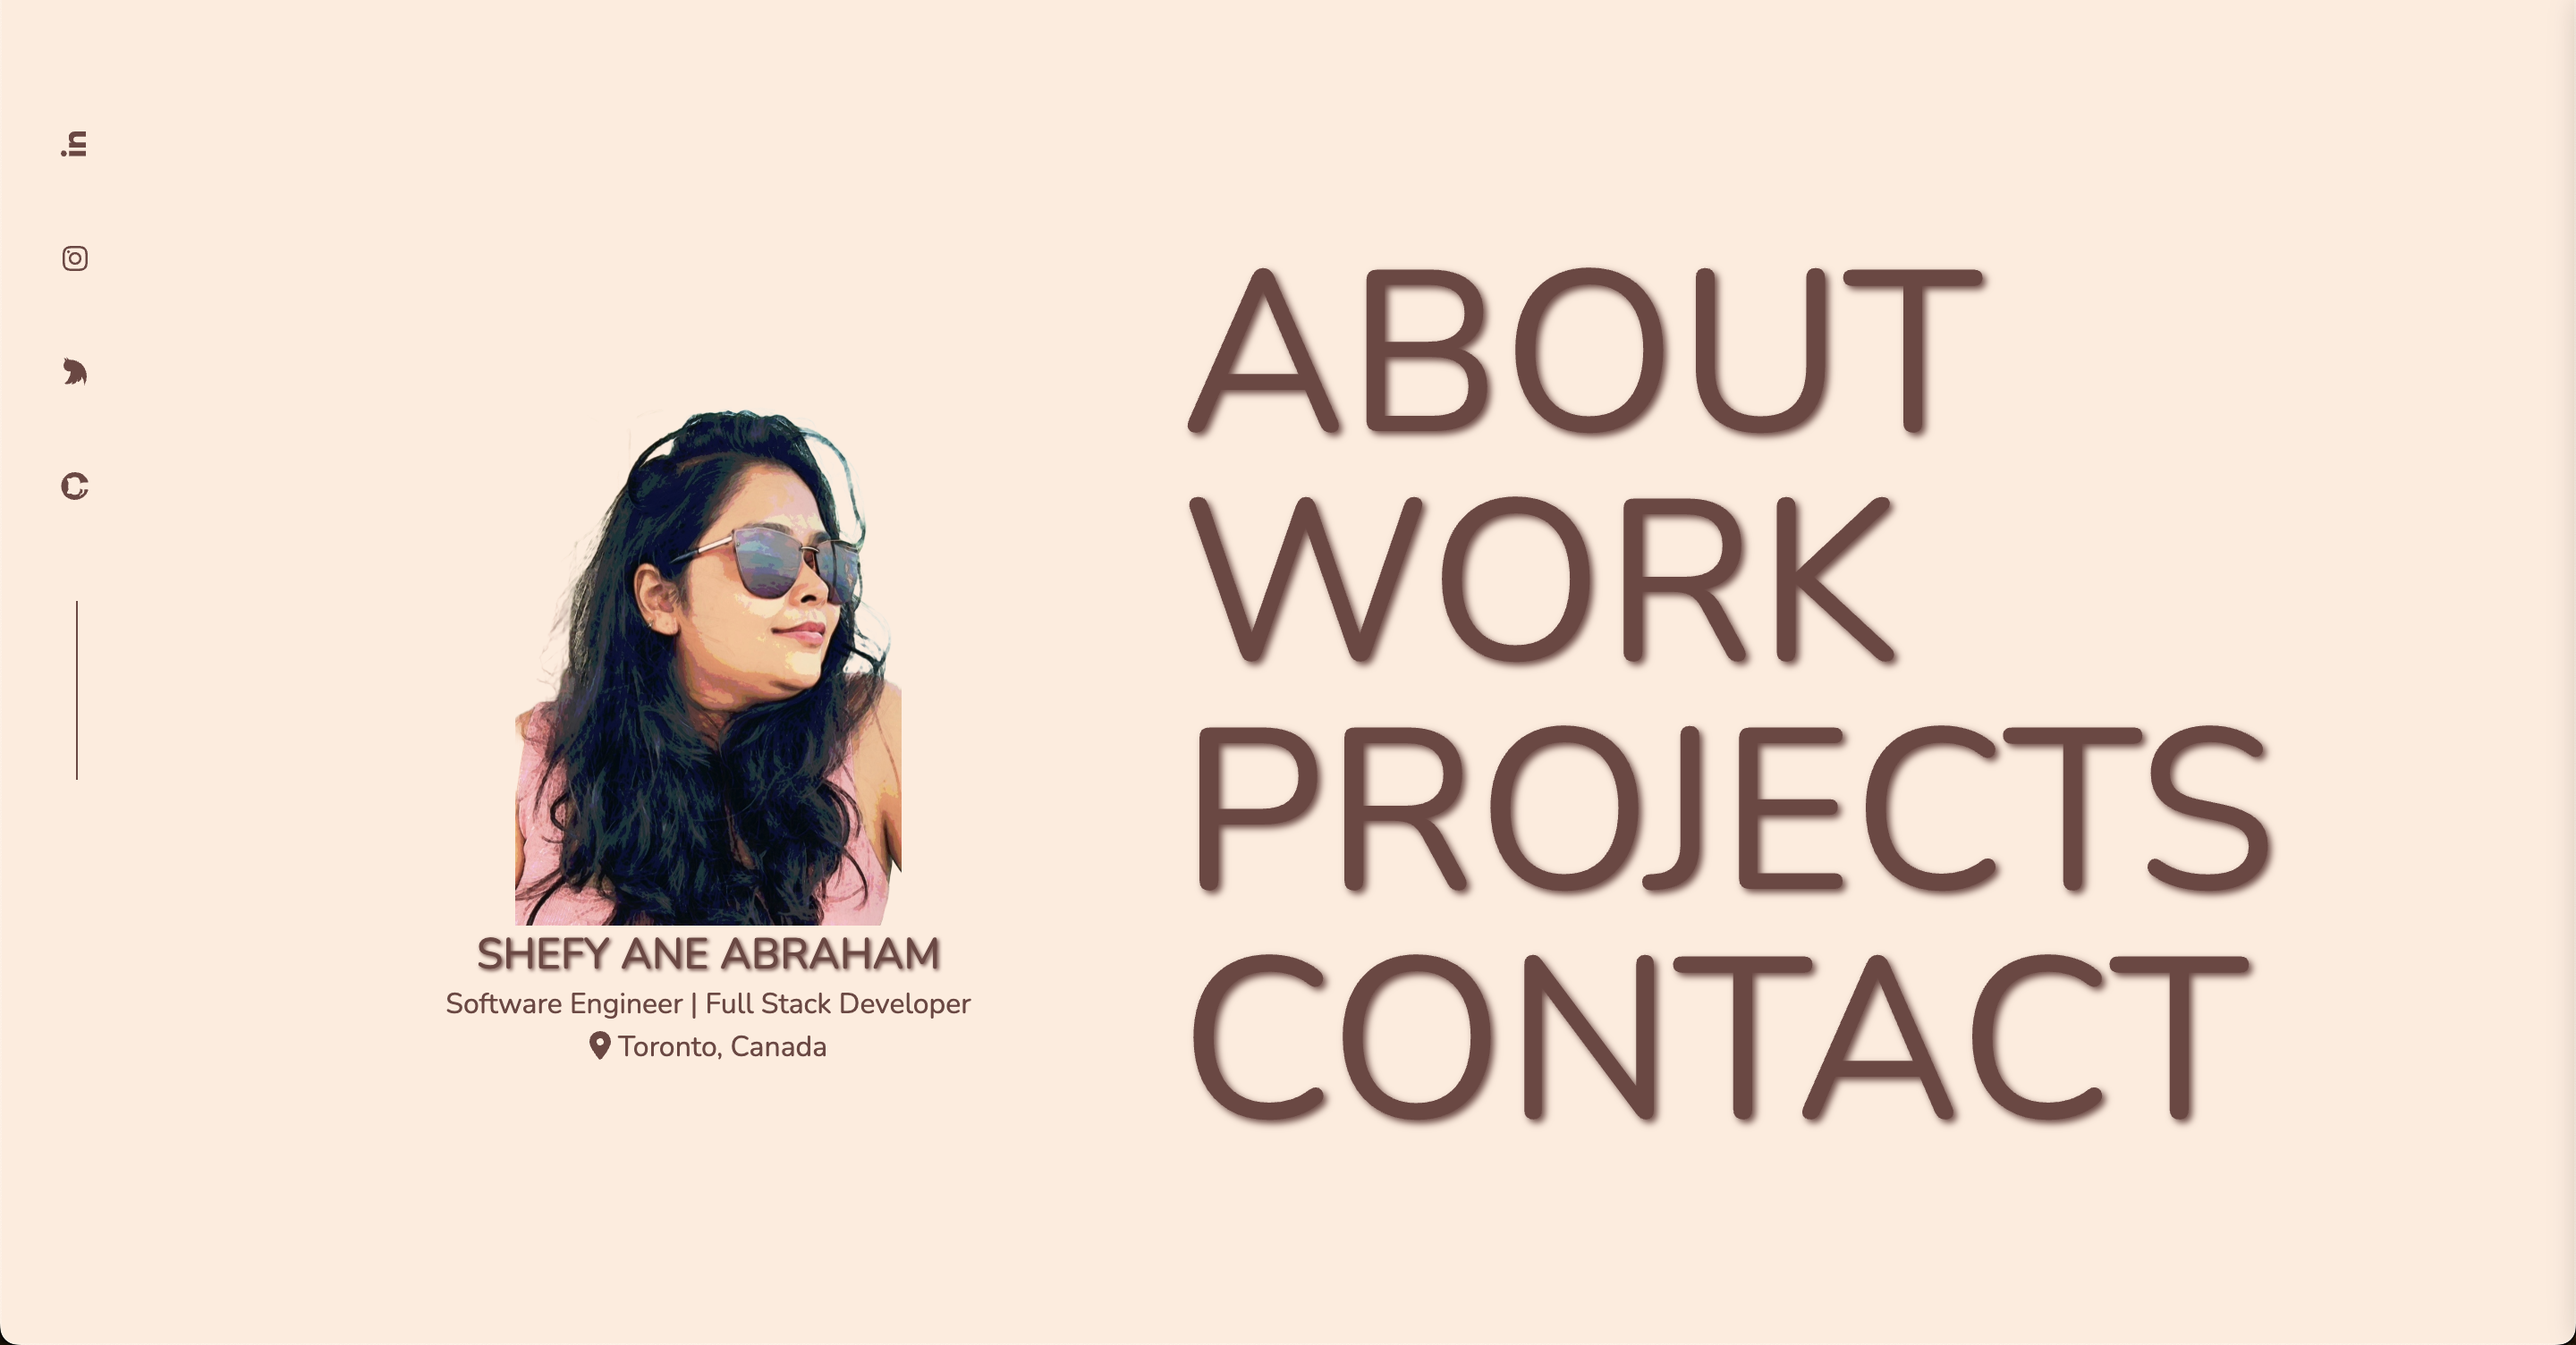
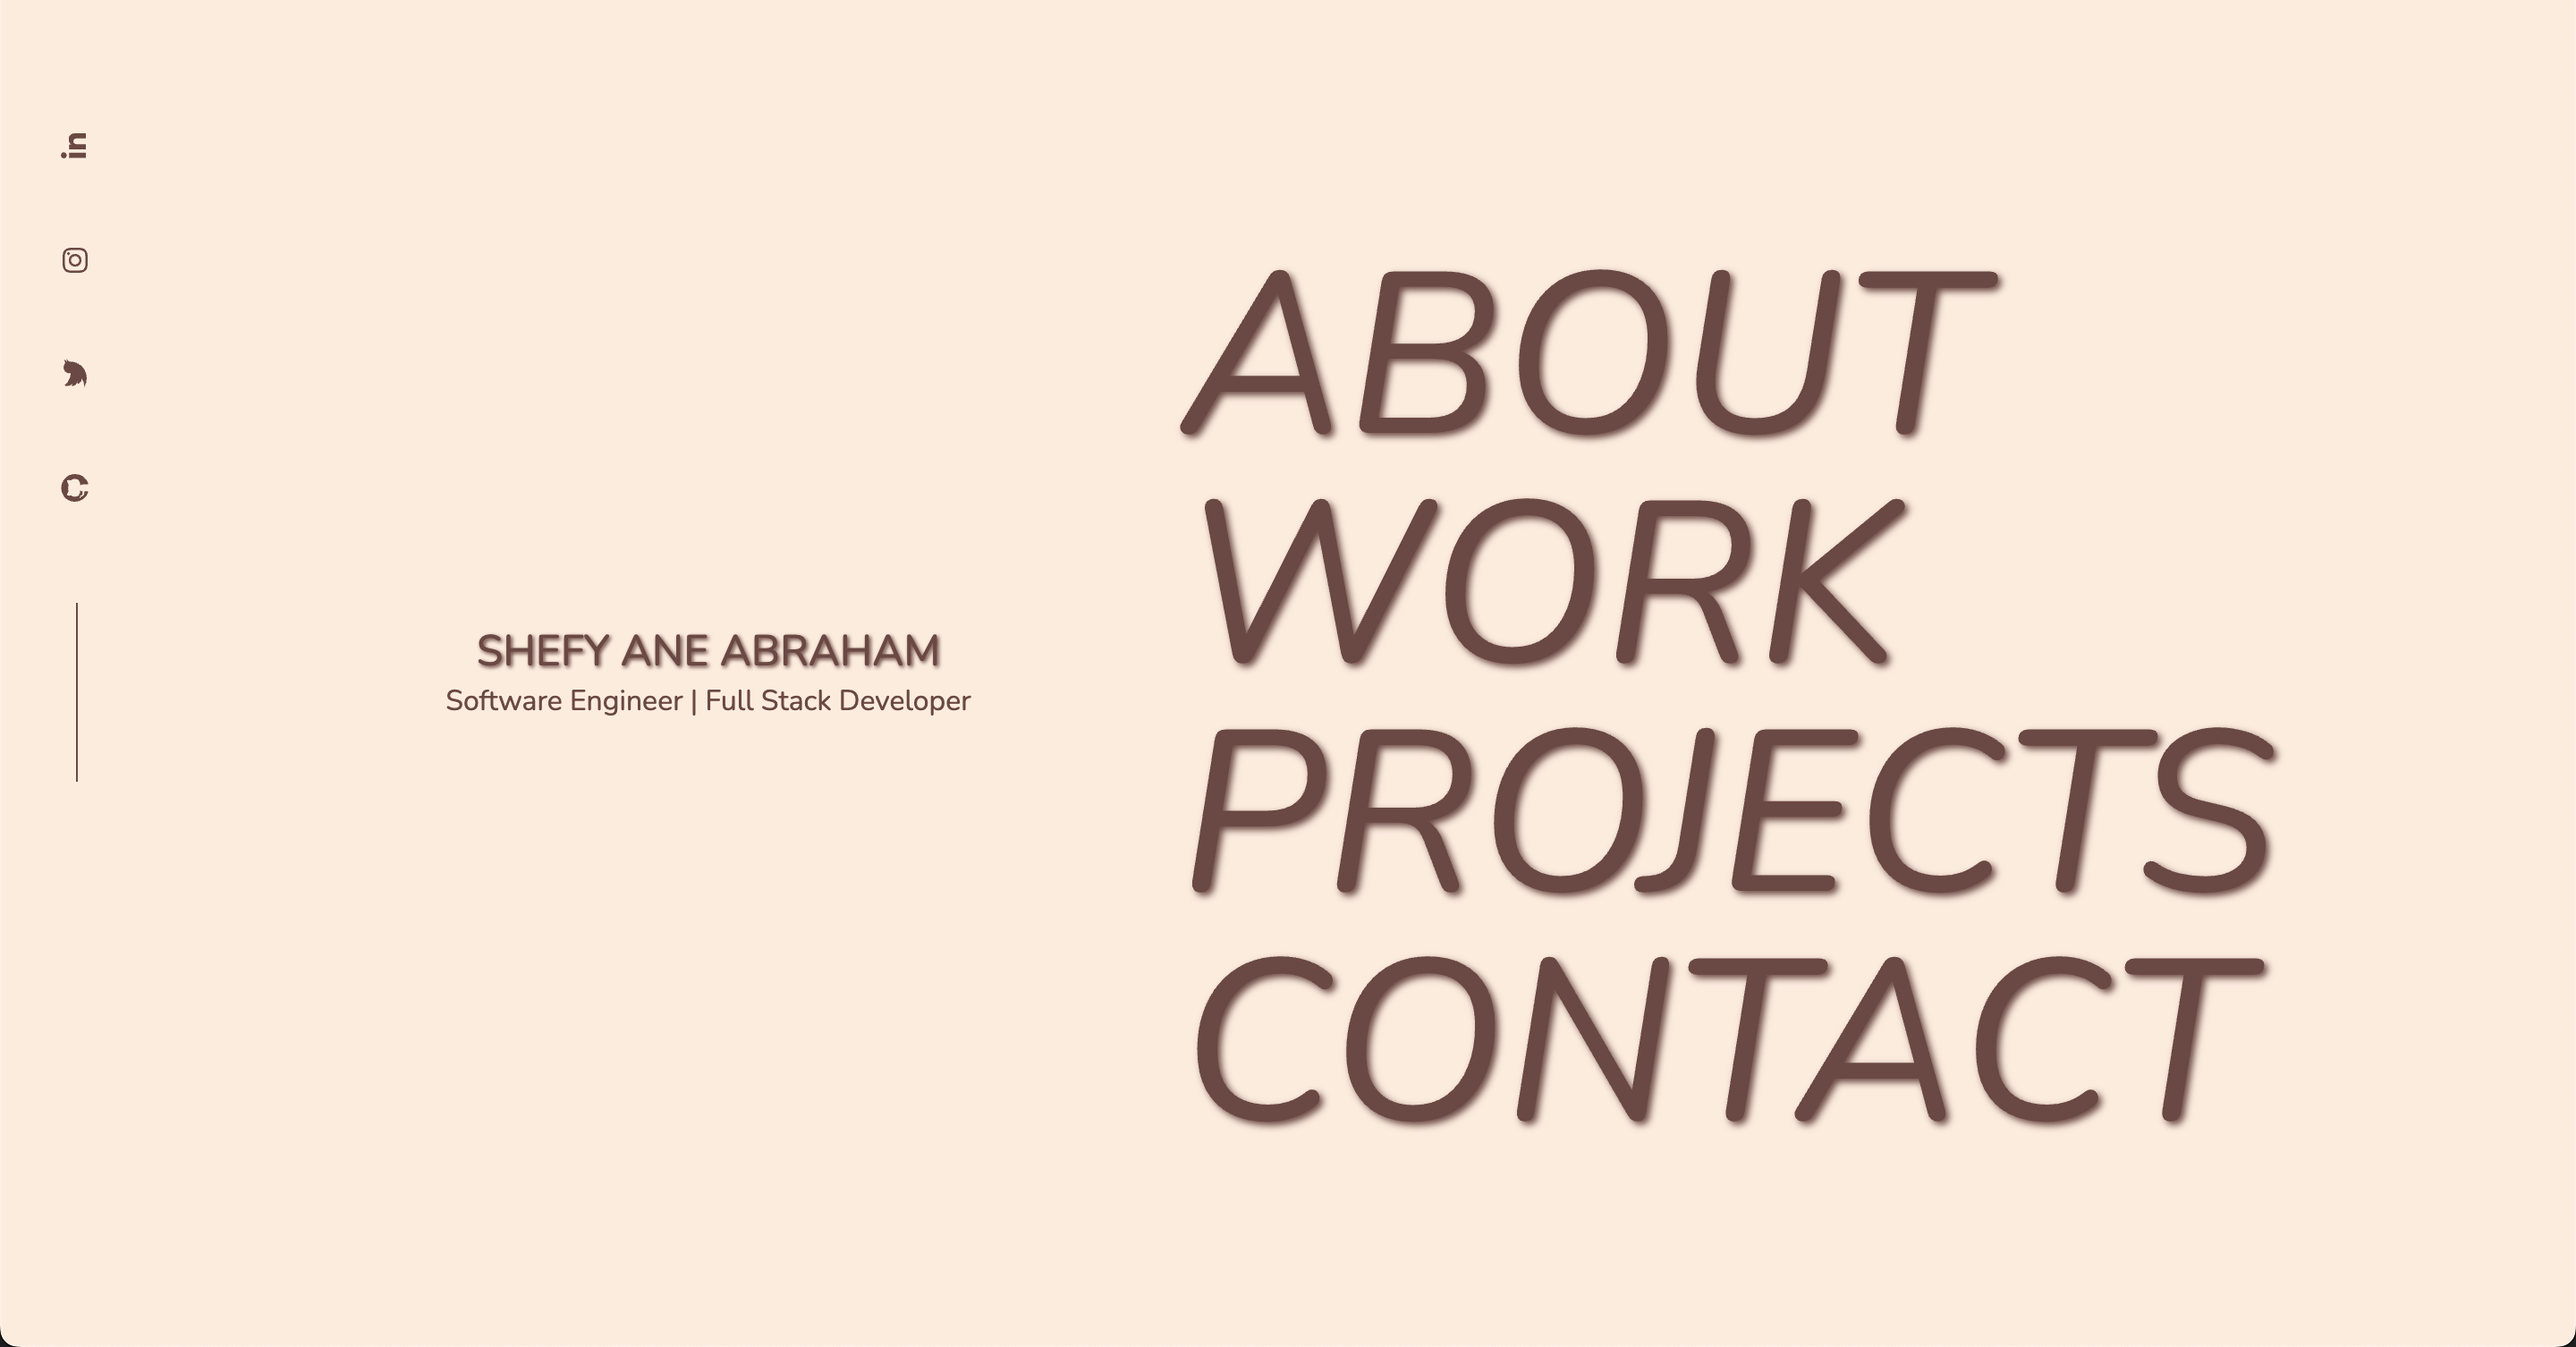
Projects update

diff --git a/src/components/Project.js b/src/components/Project.js
@@ -1,9 +1,5 @@
 import React from "react";
 import HomeNav from "./HomeNav";
-import portfolio1 from "../assets/portfolio/hiperlearn-img.png"
-import details from "../assets/portfolio/hiperlearn-img.png"
-import { projectsData } from "../data";
-import { skillsData } from "../data";
 const Project = () => {
     return (
         <div data-aos="fade-up">
@@ -16,8 +12,8 @@ const Project = () => {
                                 <div data-aos="fade-left" className="header-item text-shadow-lgS text-8xl max-sm:text-4xl">PROJECTS</div>
                                 <div className="gap-4 columns-3 pt-[2%] max-sm:gap-2 max-sm:columns-1">
                                     <div className="grid gap-4 max-sm:gap-2">
-                                        <a href ="https://shefyaneabraham.github.io" target="_blank" className="group block relative cursor-pointer overflow-hidden rounded-md">
-                                            <img className="blur-none group-hover:blur-sm"src={require(`../assets/portfolio/portfolio.png`)} />
+                                        <div className="group block relative cursor-pointer overflow-hidden rounded-md">
+                                            <img className="blur-none group-hover:blur-sm" src={require(`../assets/portfolio/portfolio.png`)} />
                                             <div className="absolute inset-0 opacity-0 transition duration-300 group-hover:opacity-100">
                                                 <div className="pointer-events-none absolute inset-0 bg-black opacity-30"></div>
                                                 <div className="absolute inset-0 flex flex-col p-8">
@@ -25,8 +21,8 @@ const Project = () => {
                                                     <div className="relative z-10 mt-auto break-words text-lg font-semibold text-accent">Personal Portfolio</div>
                                                 </div>
                                             </div>
-                                        </a>
-                                        <a href ="" target="_blank" className="group block relative cursor-pointer overflow-hidden rounded-md">
+                                        </div>
+                                        <div className="group block relative cursor-pointer overflow-hidden rounded-md">
                                             <img className="blur-none group-hover:blur-sm" src={require(`../assets/portfolio/hiperlearn-img.png`)} />
                                             <div className="absolute inset-0 opacity-0 transition duration-300 group-hover:opacity-100">
                                                 <div className="pointer-events-none absolute inset-0 bg-black opacity-30"></div>
@@ -35,20 +31,22 @@ const Project = () => {
                                                     <div className="relative z-10 mt-auto break-words text-lg font-semibold text-accent">Hiperlearn Learning Platform</div>
                                                 </div>
                                             </div>
-                                        </a>
-                                        <a href ="" target="_blank" className="group block relative cursor-pointer overflow-hidden rounded-md">
+                                        </div>
+                                        <div className="group block relative cursor-pointer overflow-hidden rounded-md">
                                             <img className="blur-none group-hover:blur-sm" src={require(`../assets/portfolio/song.png`)} />
                                             <div className="absolute inset-0 opacity-0 transition duration-300 group-hover:opacity-100">
                                                 <div className="pointer-events-none absolute inset-0 bg-black opacity-30"></div>
                                                 <div className="absolute inset-0 flex flex-col p-8">
                                                     {/* <button className="mr-auto rounded-full bg-red-500 py-2 px-8 text-sm font-bold text-white">Share</button> */}
-                                                    <div className="relative z-10 mt-auto break-words text-lg font-semibold text-accent">Song Recommender System based on Emotion Level of the Song using NLP and Machine Learning.</div>
+                                                    <div className="relative z-10 mt-auto break-words text-lg font-semibold text-accent">Song Recommender System based on Emotion Level of the Song using NLP and Machine Learning</div>
                                                 </div>
                                             </div>
-                                        </a>
+                                        </div>
+                        
+    
                                     </div>
                                     <div className="grid gap-4 max-sm:gap-2">
-                                        <a href ="" target="_blank" className="group block relative cursor-pointer overflow-hidden rounded-md">
+                                    <div className="group block relative cursor-pointer overflow-hidden rounded-md">
                                             <img className="blur-none group-hover:blur-sm" src={require(`../assets/portfolio/weather-img.png`)} />
                                             <div className="absolute inset-0 opacity-0 transition duration-300 group-hover:opacity-100">
                                                 <div className="pointer-events-none absolute inset-0 bg-black opacity-30"></div>
@@ -57,8 +55,8 @@ const Project = () => {
                                                     <div className="relative z-10 mt-auto break-words text-lg font-semibold text-accent">Weather Data Analysis and Prediction using Spark</div>
                                                 </div>
                                             </div>
-                                        </a>
-                                        <a href ="" target="_blank" className="group block relative cursor-pointer overflow-hidden rounded-md">
+                                        </div>
+                                        <div className="group block relative cursor-pointer overflow-hidden rounded-md">
                                             <img className="blur-none group-hover:blur-sm" src={require(`../assets/portfolio/neo4j-img.png`)} />
                                             <div className="absolute inset-0 opacity-0 transition duration-300 group-hover:opacity-100">
                                                 <div className="pointer-events-none absolute inset-0 bg-black opacity-30"></div>
@@ -67,8 +65,8 @@ const Project = () => {
                                                     <div className="relative z-10 mt-auto break-words text-lg font-semibold text-accent">Using Neo4j for community graph: A case study</div>
                                                 </div>
                                             </div>
-                                        </a>
-                                        <a href ="" target="_blank" className="group block relative cursor-pointer overflow-hidden rounded-md">
+                                        </div>
+                                        <div className="group block relative cursor-pointer overflow-hidden rounded-md">
                                             <img className="blur-none group-hover:blur-sm" src={require(`../assets/portfolio/iot-img.png`)} />
                                             <div className="absolute inset-0 opacity-0 transition duration-300 group-hover:opacity-100">
                                                 <div className="pointer-events-none absolute inset-0 bg-black opacity-30"></div>
@@ -77,11 +75,10 @@ const Project = () => {
                                                     <div className="relative z-10 mt-auto break-words text-lg font-semibold text-accent">iMedBox for diabetes patients</div>
                                                 </div>
                                             </div>
-                                        </a>
-
+                                        </div>
                                     </div>
                                     <div className="grid gap-4 max-sm:gap-2">
-                                        <a href ="" target="_blank" className="group block relative cursor-pointer overflow-hidden rounded-md">
+                                    <div className="group block relative cursor-pointer overflow-hidden rounded-md">
                                             <img className="blur-none group-hover:blur-sm" src={require(`../assets/portfolio/social-media-img.png`)} />
                                             <div className="absolute inset-0 opacity-0 transition duration-300 group-hover:opacity-100">
                                                 <div className="pointer-events-none absolute inset-0 bg-black opacity-30"></div>
@@ -90,9 +87,9 @@ const Project = () => {
                                                     <div className="relative z-10 mt-auto break-words text-lg font-semibold text-accent">Detecting negative emotions from Social Media comments and messages using NLP and Machine Learning</div>
                                                 </div>
                                             </div>
-                                        </a>
-                                        <a href ="" target="_blank" className="group block relative cursor-pointer overflow-hidden rounded-md">
-                                            <img className="blur-none group-hover:blur-sm" src={require(`../assets/portfolio/project-manage.png`)}  />
+                                        </div>
+                                        <div className="group block relative cursor-pointer overflow-hidden rounded-md">
+                                            <img className="blur-none group-hover:blur-sm" src={require(`../assets/portfolio/project-manage.png`)} />
                                             <div className="absolute inset-0 opacity-0 transition duration-300 group-hover:opacity-100">
                                                 <div className="pointer-events-none absolute inset-0 bg-black opacity-30"></div>
                                                 <div className="absolute inset-0 flex flex-col p-8">
@@ -100,7 +97,7 @@ const Project = () => {
                                                     <div className="relative z-10 mt-auto break-words text-lg font-semibold text-accent">Project Management System</div>
                                                 </div>
                                             </div>
-                                        </a>
+                                        </div>
                                     </div>
                                 </div>
                             </div>

diff --git a/src/components/Main.js b/src/components/Main.js
@@ -1,10 +1,6 @@
 import React from "react";
 import { Link } from 'react-router-dom';
-import myImg from '../assets/heroImage.PNG'
-// import NavigationLeft from './NavigationLeft';
 import Navigation from './Navigation';
-import { FontAwesomeIcon } from "@fortawesome/react-fontawesome"
-import { faLocationDot } from "@fortawesome/free-solid-svg-icons"
 const Main = () => {
     return (
         <div data-aos="fade-down" className="relative block z-40 box-border">
@@ -27,7 +23,7 @@ const Main = () => {
                 </div>
                 <div className="section-right w-[65%] text-accent h-[90vh] float-right gap-x-4 gap-y-4 text-center flex-col justify-center items-center flex relative pt-[5vh] left-auto right-[0%] inset-y-[0%] max-sm:pt-[50%] max-sm:w-full max-sm:h-auto max-sm:flex">
                     <nav className="nav text-left pl-[6%] pt-[10%]">
-                        <div className="items block nav-font font-normal text-9xl max-sm:text-6xl">
+                        <div className="items block nav-font font-normal italic text-9xl max-sm:text-6xl">
                             <div className="item transition duration-150 ease-in-out hover:scale-110 text-shadow-lg">
                                 <Link to="/about">ABOUT</Link>
                             </div>

diff --git a/public/index.html b/public/index.html
@@ -27,7 +27,7 @@
       work correctly both with client-side routing and a non-root public URL.
       Learn how to configure a non-root public URL by running `npm run build`.
     -->
-    <title>React App</title>
+    <title>Shefy Ane Abraham</title>
   </head>
   <body>
     <noscript>You need to enable JavaScript to run this app.</noscript>
